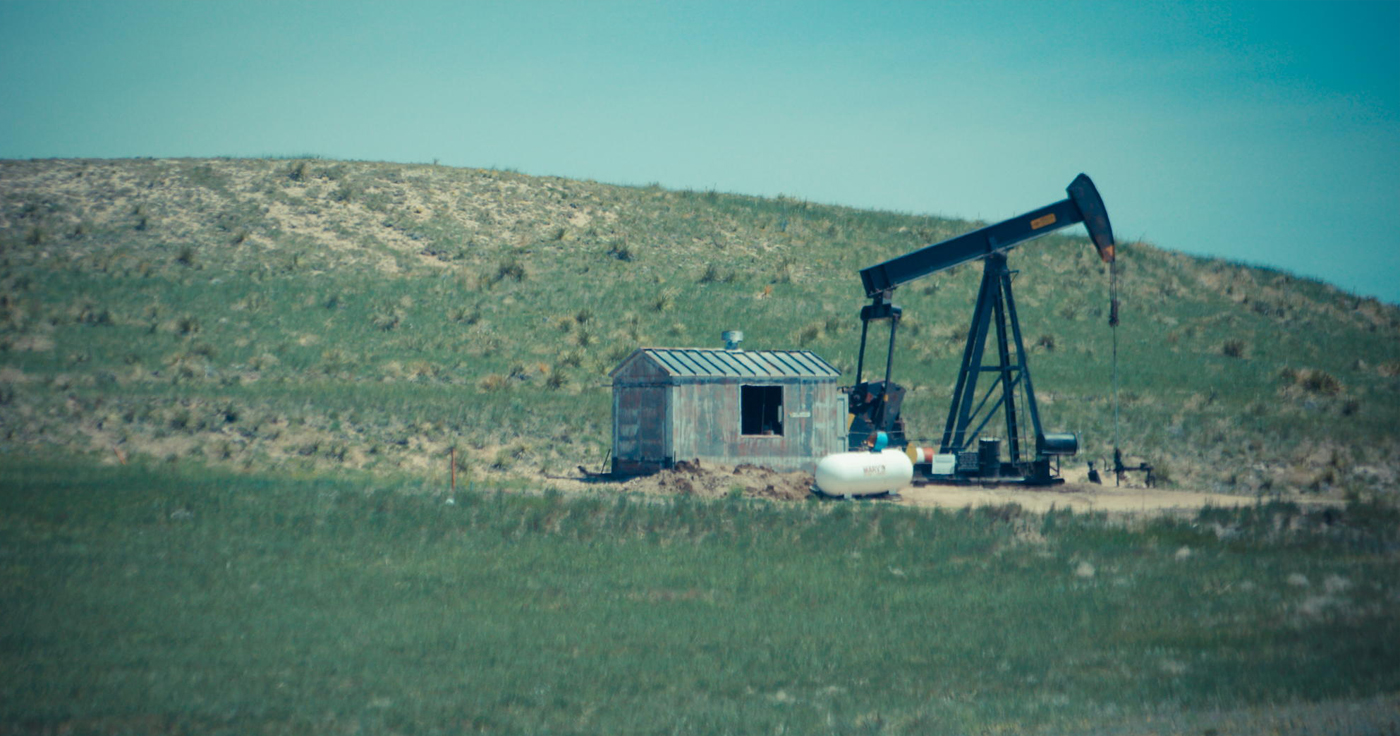
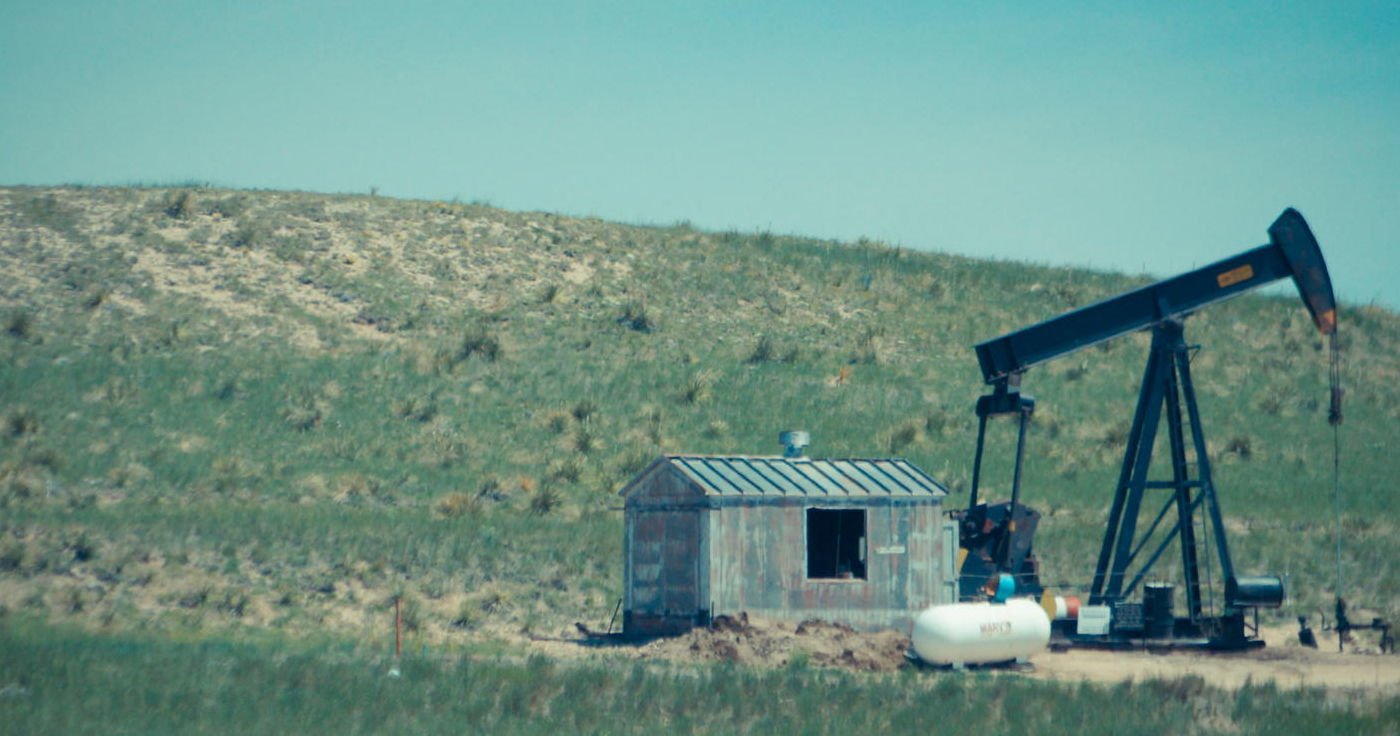
photos added

diff --git a/404.html b/404.html
@@ -112,8 +112,12 @@
 
 				<!-- Menu -->
 					<ul class="menu">
+						<li><a href="http://500px.com/photo/48587878/untitled-by-amanda-moore"> P1</a></li>
+						<li><a href="http://500px.com/photo/52960794/oil-move-by-marcello-provenzano"> P2</a></li>
 						<li>&copy; PetroPredict Inc.</li>
 						<li>All Rights Reserved</li>
+
+						
 					</ul>
 			
 			</footer>
